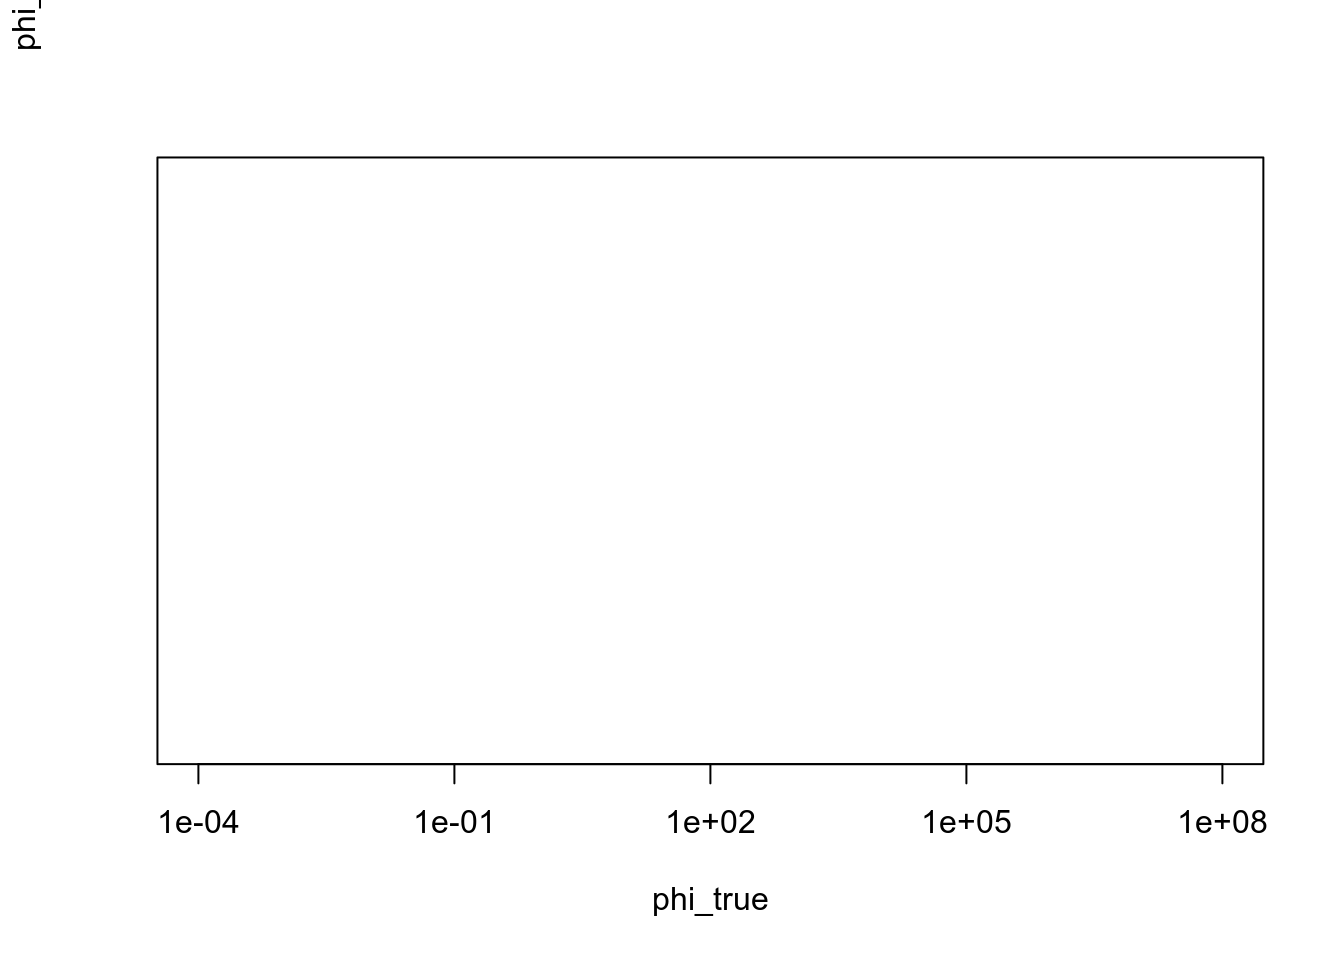
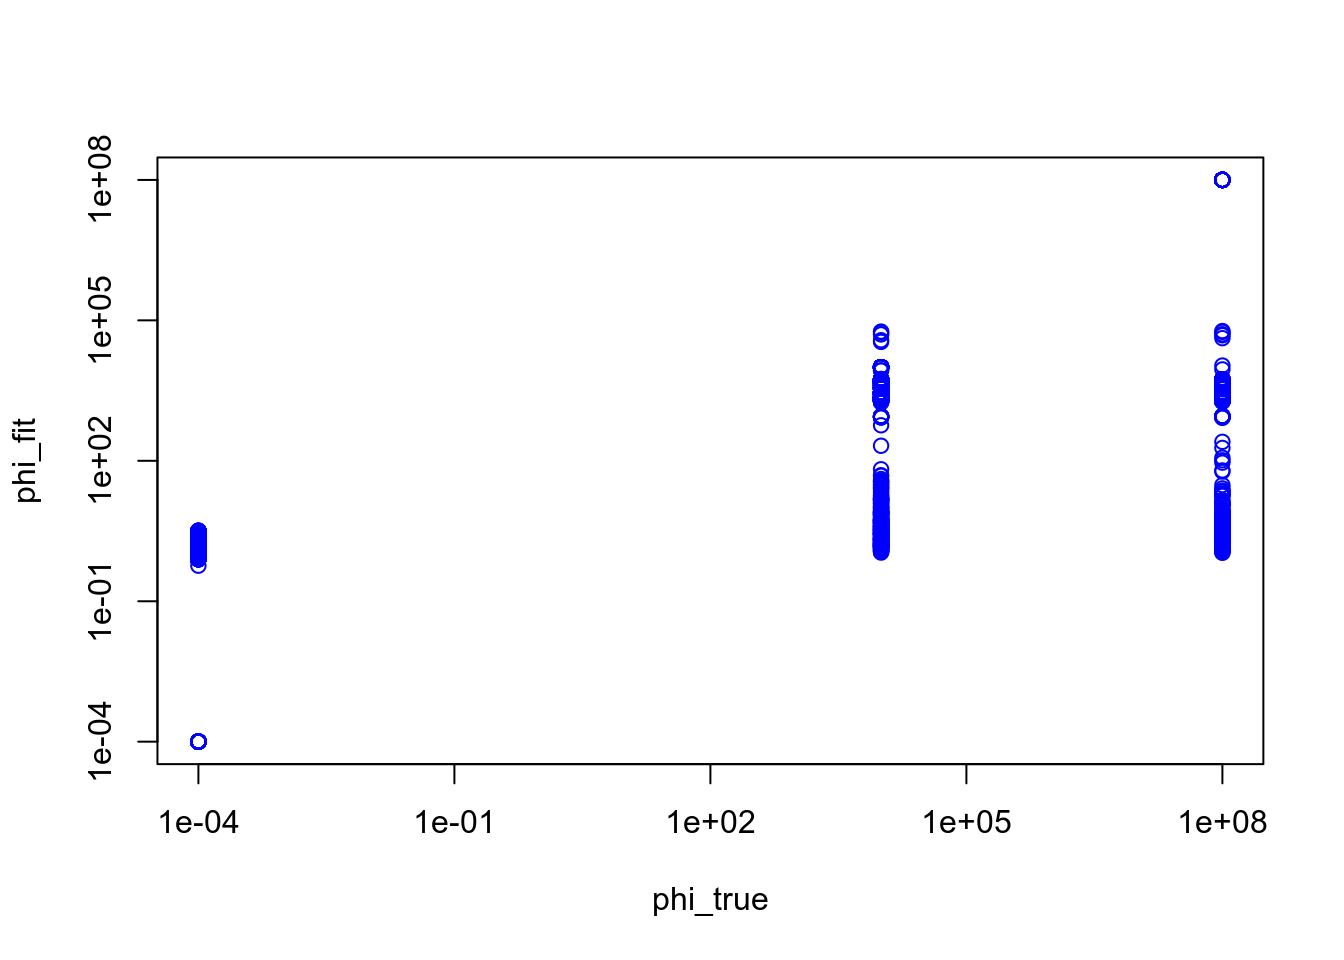
Build site.

diff --git a/docs/experiment_nb_means2.html b/docs/experiment_nb_means2.html
@@ -509,10 +509,10 @@ unnamed-chunk-3
 <div class="panel panel-default">
 <div class="panel-heading">
 <p class="panel-title">
-<a data-toggle="collapse" data-parent="#workflowr-checks" href="#strongRepositoryversionstrongahrefhttpsgithubcomzihao12ebpmfdemotreea0839eeae43f53efd46aa9c0da46663e862759b4targetblanka0839eea"> <span class="glyphicon glyphicon-ok text-success" aria-hidden="true"></span> <strong>Repository version:</strong> <a href="https://github.com/zihao12/ebpmf_demo/tree/a0839eeae43f53efd46aa9c0da46663e862759b4" target="_blank">a0839ee</a> </a>
+<a data-toggle="collapse" data-parent="#workflowr-checks" href="#strongRepositoryversionstrongahrefhttpsgithubcomzihao12ebpmfdemotree92b14fa4a1ea1e4ff7a9784d8f5d54f7ea2527aatargetblank92b14faa"> <span class="glyphicon glyphicon-ok text-success" aria-hidden="true"></span> <strong>Repository version:</strong> <a href="https://github.com/zihao12/ebpmf_demo/tree/92b14fa4a1ea1e4ff7a9784d8f5d54f7ea2527aa" target="_blank">92b14fa</a> </a>
 </p>
 </div>
[2 lines of base64/hex data omitted]
 <div class="panel-body">
 <p>
 Great! You are using Git for version control. Tracking code development and connecting the code version to the results is critical for reproducibility. The version displayed above was the version of the Git repository at the time these results were generated. <br><br> Note that you need to be careful to ensure that all relevant files for the analysis have been committed to Git prior to generating the results (you can use <code>wflow_publish</code> or <code>wflow_git_commit</code>). workflowr only checks the R Markdown file, but you know if there are other scripts or data files that it depends on. Below is the status of the Git repository when the results were generated:
@@ -598,6 +598,40 @@ Message
 </tr>
 </thead>
 <tbody>
+<tr>
+<td>
+Rmd
+</td>
+<td>
+<a href="https://github.com/zihao12/ebpmf_demo/blob/92b14fa4a1ea1e4ff7a9784d8f5d54f7ea2527aa/analysis/experiment_nb_means2.Rmd" target="_blank">92b14fa</a>
+</td>
+<td>
+zihao12
+</td>
+<td>
+2020-04-03
+</td>
+<td>
+add starting from truth
+</td>
+</tr>
+<tr>
+<td>
+html
+</td>
+<td>
+<a href="https://rawcdn.githack.com/zihao12/ebpmf_demo/83fc1e178589aef8dbe0f562df0e8fb7b71ad013/docs/experiment_nb_means2.html" target="_blank">83fc1e1</a>
+</td>
+<td>
+zihao12
+</td>
+<td>
+2020-04-03
+</td>
+<td>
+Build site.
+</td>
+</tr>
 <tr>
 <td>
 Rmd
@@ -1580,9 +1614,8 @@ zihao12
 <h2>look at <span class="math inline">\(\Phi_{jk}\)</span></h2>
 <pre class="r"><code>Phi_2 = 1 / exper$fit_init_random2$fitted_g$A
 Phi_from_true = 1 / exper$fit_init_truth$fitted_g$A
-plot(exper$Phi, Phi_2, log = &quot;xy&quot;, xlab = &quot;phi_true&quot;, ylab = &quot;phi_fit&quot;, ylim = c(0, 1e+8))</code></pre>
-<pre><code>Warning in plot.window(...): nonfinite axis limits [GScale(-inf,8,2, .); log=1]</code></pre>
-<pre class="r"><code>points(exper$Phi, Phi_from_true, col = &quot;blue&quot;)</code></pre>
+plot(exper$Phi, Phi_from_true, log = &quot;xy&quot;, xlab = &quot;phi_true&quot;, ylab = &quot;phi_fit&quot;, col = &quot;blue&quot;)
+points(exper$Phi, Phi_2, col = &quot;blue&quot;)</code></pre>
 <p><img src="figure/experiment_nb_means2.Rmd/unnamed-chunk-6-1.png" width="672" style="display: block; margin: auto;" /></p>
 <p>
 <button type="button" class="btn btn-default btn-xs btn-workflowr btn-workflowr-fig" data-toggle="collapse" data-target="#fig-unnamed-chunk-6-1">
@@ -1606,6 +1639,17 @@ Date
 </tr>
 </thead>
 <tbody>
+<tr>
+<td>
+<a href="https://github.com/zihao12/ebpmf_demo/blob/83fc1e178589aef8dbe0f562df0e8fb7b71ad013/docs/figure/experiment_nb_means2.Rmd/unnamed-chunk-6-1.png" target="_blank">83fc1e1</a>
+</td>
+<td>
+zihao12
+</td>
+<td>
+2020-04-03
+</td>
+</tr>
 <tr>
 <td>
 <a href="https://github.com/zihao12/ebpmf_demo/blob/1a31c20af7195f39023cf5bd7dd1720999251b0b/docs/figure/experiment_nb_means2.Rmd/unnamed-chunk-6-1.png" target="_blank">1a31c20</a>
